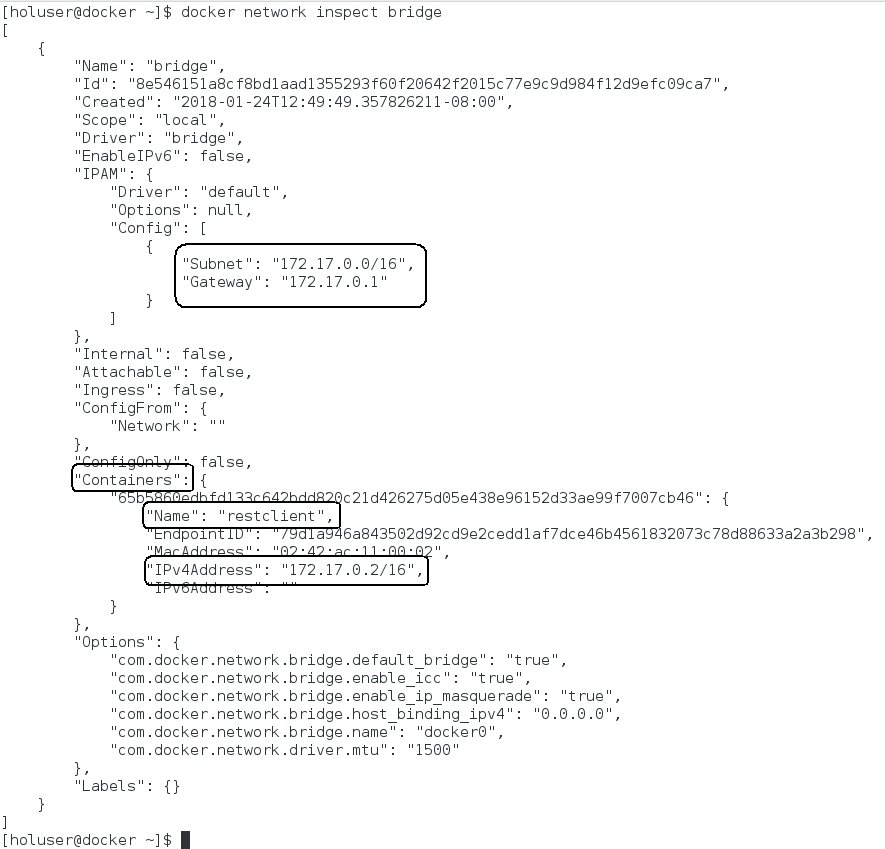
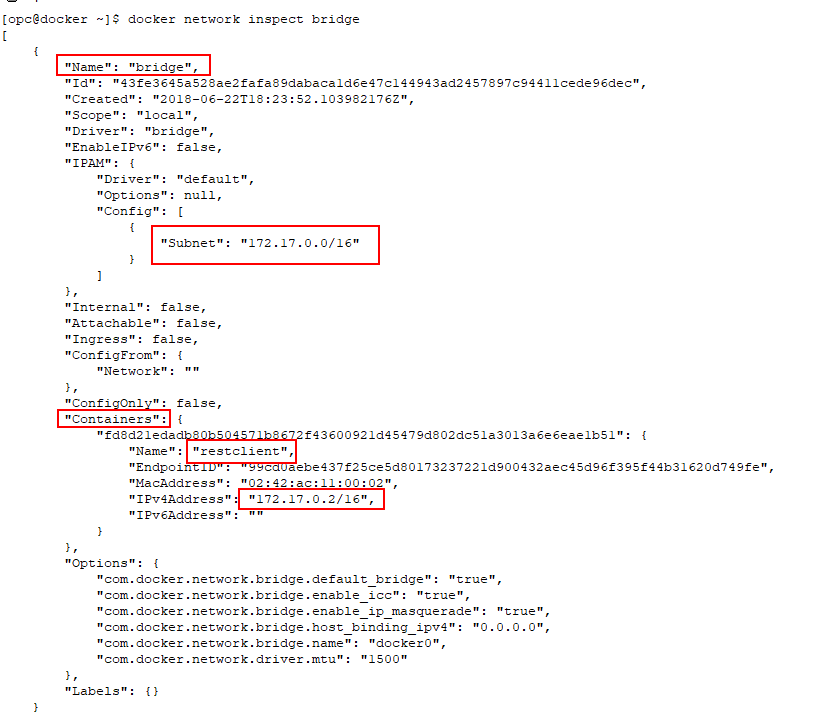
Updates

Changed region(s): [[0.0, 0.3989, 0.9828, 1.0], [0.0614, 0.0614, 0.7985, 0.3682], [0.0, 0.0, 0.5221, 0.0614]]

diff --git a/Linux100.md b/Linux100.md
@@ -1,34 +1,14 @@
 
 # Docker Workshop
 
-![](images/100Mac/Title100.png) 
+![](images/100Linux/Title100.png) 
 
-Updated: January 24, 2018
-
-## Overview
-
-What is Docker? What is a container?
-
-- Docker is the company and containerization technology.
-- [Docker Documentation](https://docs.docker.com)
-- A container is a runtime instance of a docker image: [Container Documentation](https://docs.docker.com/glossary/?term=container)
-
-Containers have been around for many years. Docker created a technology that was usable by mere humans, and was much easier to understand than before. Thus, has enjoyed a tremendous amount of support for creating a technology for packaging applications to be portable and lightweight.
-
-### VM vs Container
-
-![](images/100Linux/Picture025-1.png)
-
-While containers may sound like a virtual machine (VM), the two are distinct technologies. With VMs each virtual machine includes the application, the necessary binaries and libraries and the entire guest operating system.
-
-Whereas, Containers include the application, all of its dependencies, but share the kernel with other containers and are not tied to any specific infrastructure, other than having the Docker engine installed on it’s host – allowing containers to run on almost any computer, infrastructure and cloud.
-
-**Note:** At this time, Windows and Linux containers require that they run on their respective kernel base, therefore, Windows containers cannot run on Linux hosts and vice versa.
+Updated: June 22, 2018
 
 ## Introduction
 In this lab we introduce some basic concepts of Docker, container architectures and functions.  We will do this using a single container which provides a REST service as part of a node.js application.  The application has two pieces, which provide a microservice.
 
-- Datasource: a simple JSON file included in the container
+- Datasource: A simple JSON file included in the container
 - REST Client: To serve up data from the datasource
 
 You will use various Docker commands to setup, run and connect into containers. In this introduction you will explore concepts of Docker volumes, networking and container architecture.
@@ -46,11 +26,11 @@ You will use various Docker commands to setup, run and connect into containers. 
 ## Required Artifacts
 
 - Docker Hub Account: [Docker Hub](https://hub.docker.com/)
-- Docker and GIT installed in your own Linux environment (this guide is tailored to Linux) you can decide if you want to run locally or, you can use an available Linux based VirtualBox image
+- Docker and GIT installed in your own Linux environment
 
 # Start up and login into your Linux environment
 
-If you chose to use your own Linux installation then login and verify that the Docker engine is up and running. 
+This Lab and Lab 200 assume you have went through the 050 Set Up Lab and have SSH'ed into that Compute Instance. verify that the Docker engine is up and running. 
 
 **NOTE**: The screen shots in this lab guide are using the available Linux VirtualBox VM
 
@@ -58,11 +38,11 @@ If you chose to use your own Linux installation then login and verify that the D
 
 ### **STEP 1**: Open up a Terminal Window
 
-- Right-click and open up a terminal session.
-
-![](images/100Linux/Picture050-1.png)
+- Make sure you are in a terminal session (`Assumes login via Lab 050`).
 
 ### **STEP 2**: Verify that Docker is running
+
+**NOTE: For the duration of the Labs it's OK that the login user (holuser vs. opc) and the Docker version may vary from the screenshots**
 
 - **Type** the following:
 
@@ -89,7 +69,7 @@ docker ps
 
 ### **STEP 4**: Run the restclient docker image from docker hub
 
-We will now download and create a container based on an existing docker image stored in the Docker Hub. It uses a JSON formatted datafile to serve the test data via its exposed REST service. Docker looks for the designated image locally first before going to Docker HUB.
+We will now download and create a container based on an existing docker image stored in the Docker Hub. It uses a JSON formatted datafile to serve up test data via its exposed REST service. Docker looks for the designated image locally first before going to Docker HUB.
 
 - Let's take a look at what the docker **run** command options do:
     - "-d" flag runs the container in the background
@@ -124,15 +104,21 @@ docker ps
 
 ### **STEP 6**: Check the Application with a browser
 
-- Navigate in a browser to:
+- We need the Public IP address to test the deployment. Navigate in a browser to your Oracle Trial account and from the hamburger menu in the upper left hand side of the page select go to **Compute-->Instances**:
+
+![](images/100Linux/26.png)
+
+- Go to this URL substituting your IP address
 
 ```
-http://localhost:8002/
+http://<Public-IP>:8002/
 ```
 
 ![](images/100Linux/Picture100-6.png)
 
-- Now enter this URL into your browser :  `http://localhost:8002/products`
+- Now enter this URL into your browser :  `http://<Public-IP>:8002/products`
+
+If your browser contains a JSON Formatter add-on then the output will look something like this (else, it will just be unformatted text, which is OK):
 
 ![](images/100Linux/Picture100-7.png)
 
@@ -174,7 +160,7 @@ docker run -d -it --rm --name restclient -p=18002:8002 -e DS='json' wvbirder/res
 
 ### **STEP 9**: Inspect the Container's Network and IP Address
 
-- You can get various bits of information of the subnet that docker container is running on by inspecting the default network bridge docker creates out-of-the-box. You can create your own networks and assign containers to them but that is out of the scope of this lab. 
+- You can get various bits of information from the subnet that docker container is running on by inspecting the default network bridge docker creates out-of-the-box. You can create your own networks and assign containers to them but that is out of the scope of this lab. 
 
  - **Type** the following:
 
@@ -182,7 +168,7 @@ docker run -d -it --rm --name restclient -p=18002:8002 -e DS='json' wvbirder/res
 docker network inspect bridge
 ```
 
-- This returns information about all the containers running on the default bridge. We see that our `restclient` container is assigned IP Address 172.17.0.1. You can ping that address from the Host server.
+- This returns information about all the containers running on the default bridge. We see that our `restclient` container is assigned IP Address 172.17.0.2. You can ping that address from the Host server.
 
 ![](images/100Linux/Picture100-10.png)
 
@@ -196,10 +182,10 @@ ping 172.17.0.2
 
 ![](images/100Linux/Picture100-11.png)
 
-- Finally, **STOP** the `restclient` container as we will be re-using it in Lab 200 by **typing**:
+- Finally, **STOP** the `restclient` container as we will be re-provisioning it in Lab 200 by **typing**:
 
 ```
 docker stop restclient
 ```
 
-**This completes the Lab!**
+**This completes the Lab, you can continue to Lab 200**
